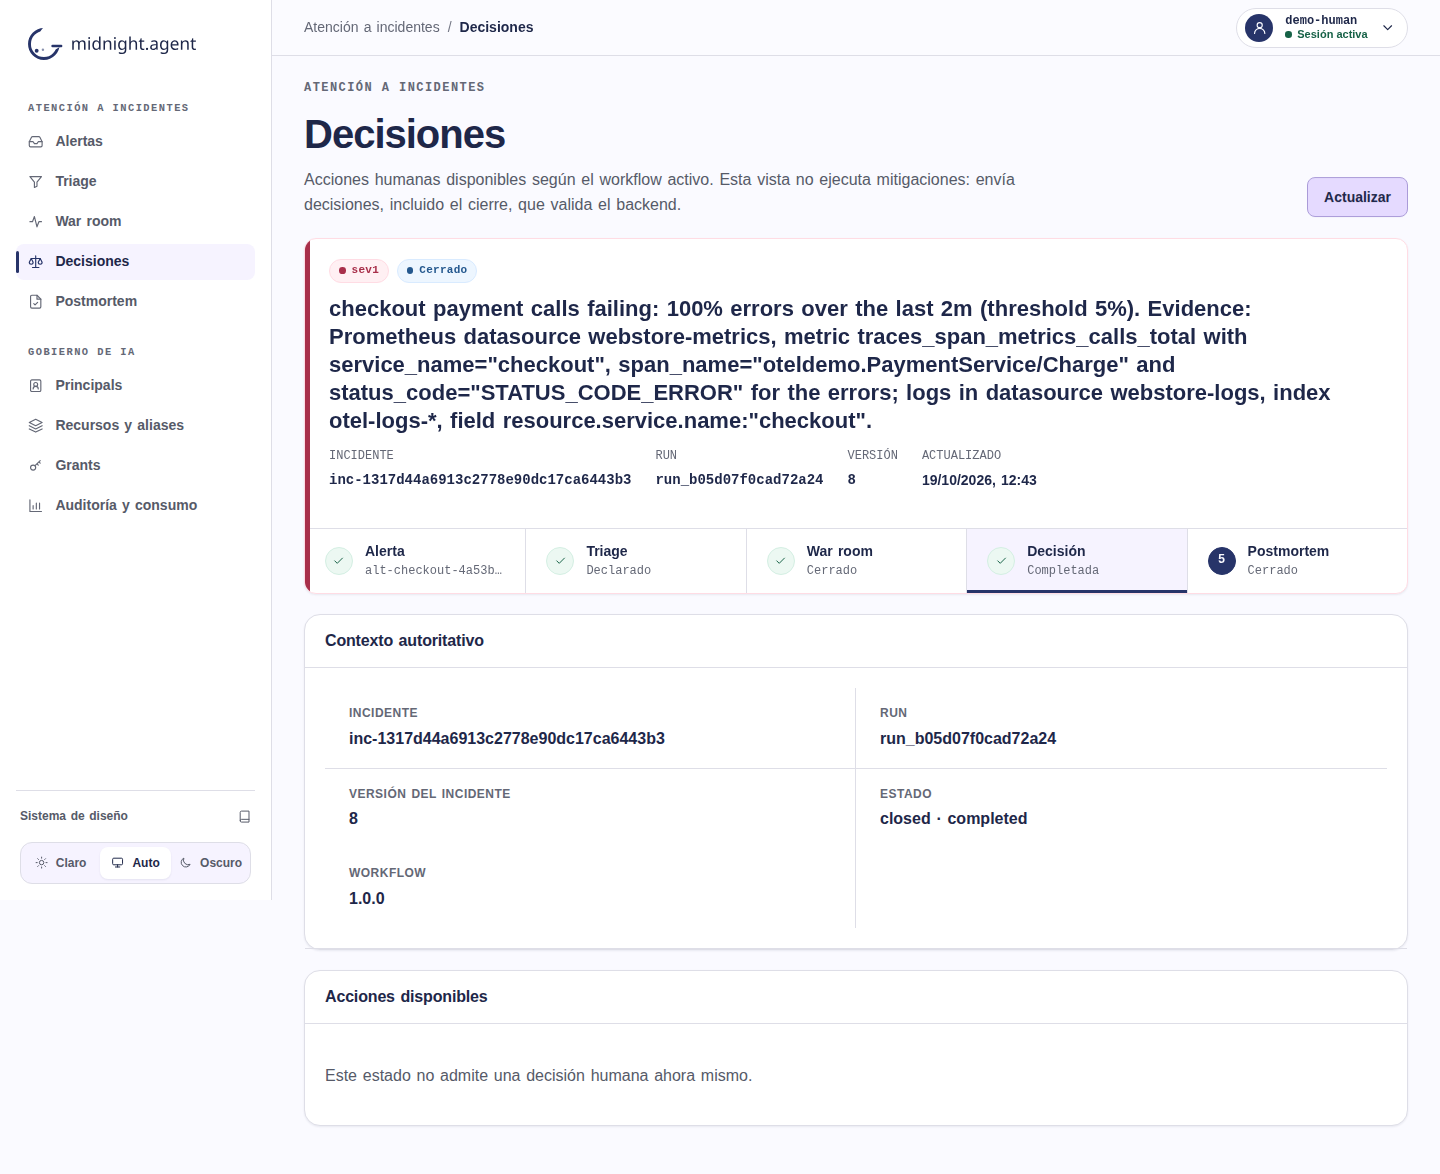
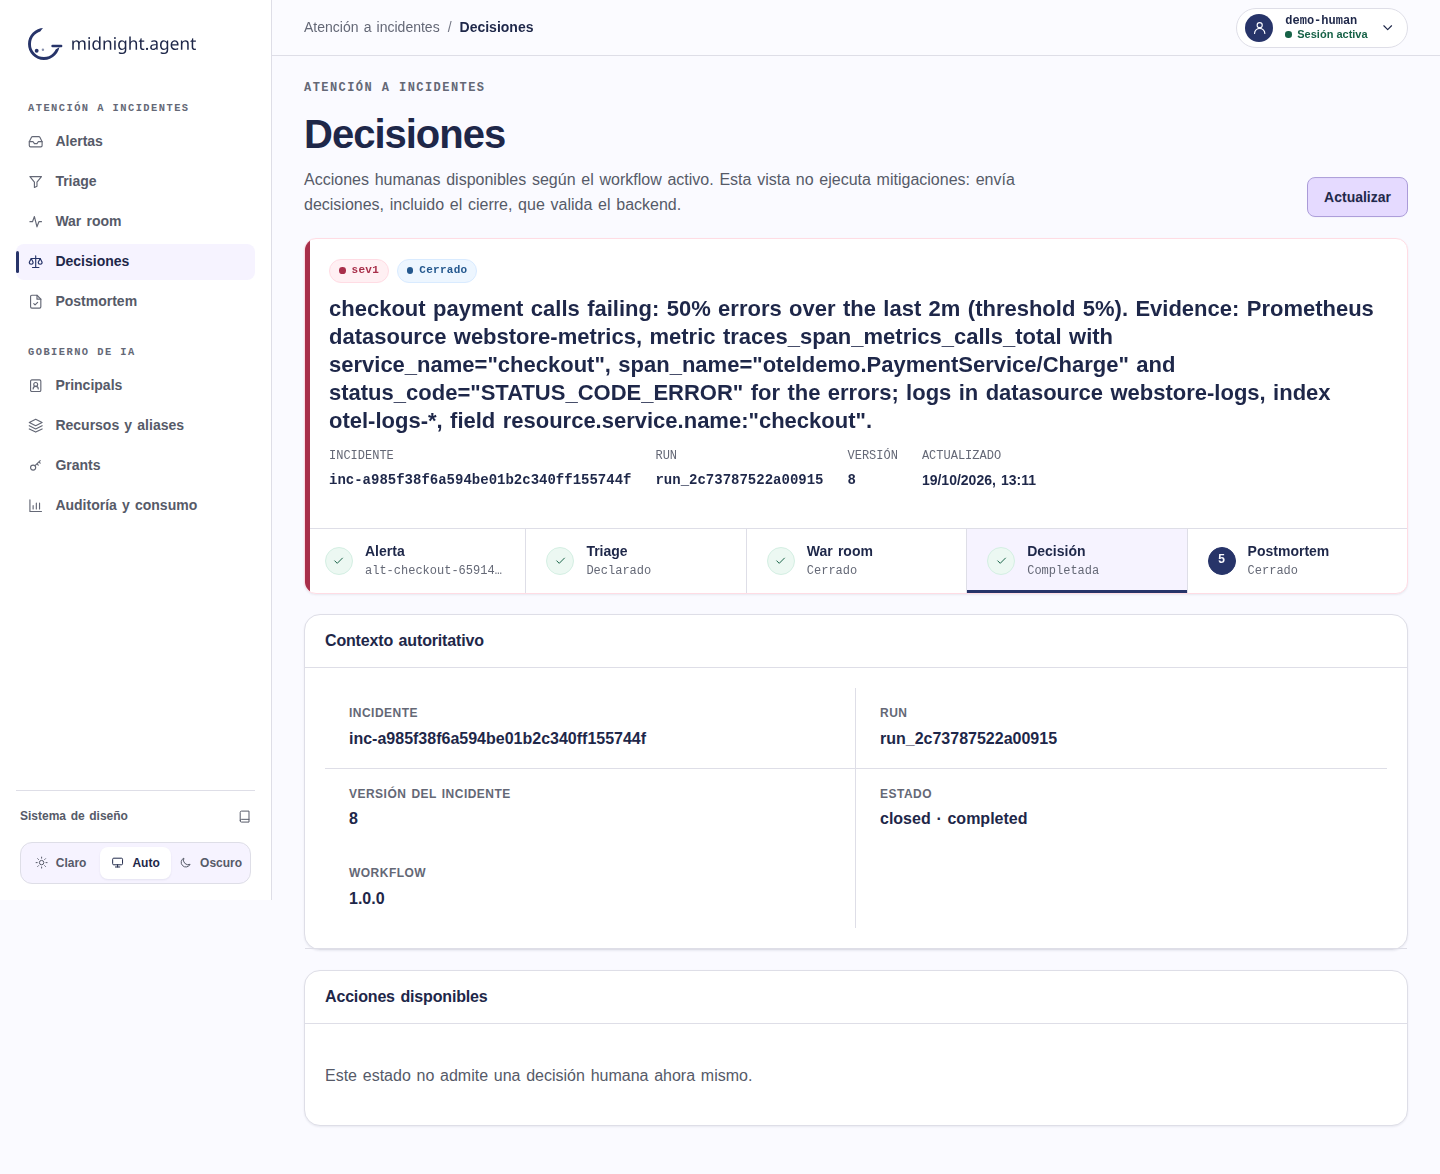
docs(demo): record the final rehearsal on main 281e779 (#37 #41 #43)

diff --git a/docs/demo-2026-10-19-runbook.md b/docs/demo-2026-10-19-runbook.md
@@ -79,9 +79,9 @@ Measured on 2026-10-19: see the table in [Rehearsal record](#rehearsal-record).
 | 3:00 | Card → Iniciar triage. Reason, severity sev1, impact; tick "Confirmo…"; Enviar comando. | `declared` + `inc-…` link; the alert context (service, summary, time, source, severity) is prefilled. |
 | 4:00 | War room → Iniciar investigación. Talk about identity, grants, alias, audit while it runs. | 1.5-3 min (91-118 s in the rehearsal). "Hipótesis actual" with confidence, "Evidencia recolectada (3-5)" with the real queries, "Ir a Decisiones". |
 | 7:00 | Ir a Decisiones: read "Mitigación propuesta" (steps, risk, verification) → Aprobar mitigación (+ comment). | Receipt `approve_mitigation … verifying`; war room approvals show "Aprobado". |
-| 8:00 | Operator applies it: `otel_ec2.py reset`; store Place Order. | "Your order is complete!" after ~11-15 s; the card leaves the inbox after 64-95 s. |
+| 8:00 | Operator applies it: `otel_ec2.py reset`; store Place Order. | "Your order is complete!" after ~11-15 s; the card leaves the inbox after 58-122 s (no need to wait for it). |
 | 9:30 | Decisiones → Verificación estable. | Run `resolved`. |
-| 10:00 | Postmortem → Abrir postmortem → Generar borrador con el agente. | Draft in 43-58 s, "Borrador del agente (triage-agent → deepseek/…, USD 0.001…)". |
+| 10:00 | Postmortem → Abrir postmortem → Generar borrador con el agente. | Draft in 43-68 s, "Borrador del agente (triage-agent → deepseek/…, USD 0.001…)". |
 | 11:00 | Edit one field → Guardar versión → Aprobar versión 1 → Decisiones link. | Version 1, review "Aprobada", close hint. |
 | 12:00 | Decisiones (postmortem run) → Cerrar incidente → tick the explicit approval → submit. | Receipt `close_incident … closed`; Postmortem shows "Cerrado". |
 | 13:00 | Governance segment. | See below. |
@@ -114,8 +114,8 @@ whole workspace). Revoke `shop-bok-incident` → next BoK search 403.
 
 ## Budget
 
-OpenRouter key usage went from USD 0.0628 to USD 0.0767 during the whole rehearsal (USD 0.014:
-four investigation starts, two agent drafts, governance calls and probes). The demo itself needs one
+OpenRouter key usage went from USD 0.0628 to USD 0.0801 during the whole rehearsal (USD 0.017:
+five investigation starts, three agent drafts, governance calls and probes). The demo itself needs one
 investigation (USD 0.002-0.005), one draft (~USD 0.0012-0.0015) and two governance calls
 (~USD 0.00002): under USD 0.01.
 
@@ -129,7 +129,7 @@ python3 scripts/otel_ec2.py down                                    # or let the
 
 ## Rehearsal record
 
-Executed 2026-10-19 11:42Z-13:01Z by the maintainer's rehearsal session, through the real console
+Executed 2026-10-19 11:42Z-13:11Z by the maintainer's rehearsal session, through the real console
 (Playwright in the repository e2e image, `--network host`, as demo-human), with each state
 transition confirmed through the API. Evidence: [docs/evidence/demo-2026-10-19/](evidence/demo-2026-10-19/)
 and the two #691 captures in [docs/evidence/issue-672/](evidence/issue-672/).
@@ -139,7 +139,8 @@ and the two #691 captures in [docs/evidence/issue-672/](evidence/issue-672/).
 | 1 | main `f8d1190`, click-only | Alert 101 s after `fail`; declared; investigation ended `unknown` after 2 min 42 s: with only the error-ratio summary the model queried `service.name` / `{service="checkout"}`, found nothing, low-confidence wrong hypothesis. Fixed by #691. |
 | 2 | `f8d1190` + evidence sentence typed into the summary | First LLM call 503 `upstream_unavailable` → `unknown` in ~1 s. Fallback (new incident through the two triage commands) → `mitigating` in 118 s → approve → reset → store paid 14 s later, alert gone after 65 s → resolved → agent draft 43 s (USD 0.00117) → v1 approved → **closed**. |
 | 3 | #691 head `73cfdf1` (= main after #691), click-only | Alert 55 s after `fail`; declared; `mitigating` in 91 s, hypothesis "Checkout's PaymentService/Charge calls are failing at a 100% error rate" (high, 4 evidence items); approve → `verifying` (approvals 1) → reset → store paid 11 s later, alert gone after 77 s → `resolved` → postmortem run → agent draft 58 s (USD 0.0015) → v1 approved → close (submit disabled until the checkbox) → **closed**. |
-| Gov | `73cfdf1` build | 10 resources; `remediation-agent` → GLM 5.3 Flash/deepinfra; two principals, credentials and 9 grants in the UI; the access matrix exactly as in the segment above (MCP Prometheus 17 series vs 403, Elasticsearch 1 doc vs 403, BoK 200 vs 403, Skill 200 vs 404, other alias 403, admin 403); two allowed LLM calls 200; audit allow/deny rows; consumption per request; budget 0 → 429, restored; revoke → 403. |
+| 4 (final) | **main `281e779`** on a fresh instance brought up from zero, click-only | Alert 41 s after `fail`; declared; `mitigating` in 101 s (hypothesis: 50% errors on PaymentService/Charge, likely the payment dependency; medium); approve → `verifying` → reset → store paid 11 s later, alert gone after 122 s → `resolved` → agent draft 68 s (USD 0.0015; one citation dropped as not a stored event) → v1 approved → **closed** 13:11:09Z. Captures in `docs/evidence/demo-2026-10-19/` come from this run. |
+| Gov | `73cfdf1` build (same tree as `281e779`) | 10 resources; `remediation-agent` → GLM 5.3 Flash/deepinfra; two principals, credentials and 9 grants in the UI; the access matrix exactly as in the segment above (MCP Prometheus 17 series vs 403, Elasticsearch 1 doc vs 403, BoK 200 vs 403, Skill 200 vs 404, other alias 403, admin 403); two allowed LLM calls 200; audit allow/deny rows; consumption per request; budget 0 → 429, restored; revoke → 403. |
 
 Bring-up from zero (`up` → store 200 → `prepare-mcp` → detached `connect-mcp` → `setup_sre.py`
 → BoK/Skills → TTL +1 h), measured 12:48:17Z-12:56:32Z: guest bootstrap until the store answered
